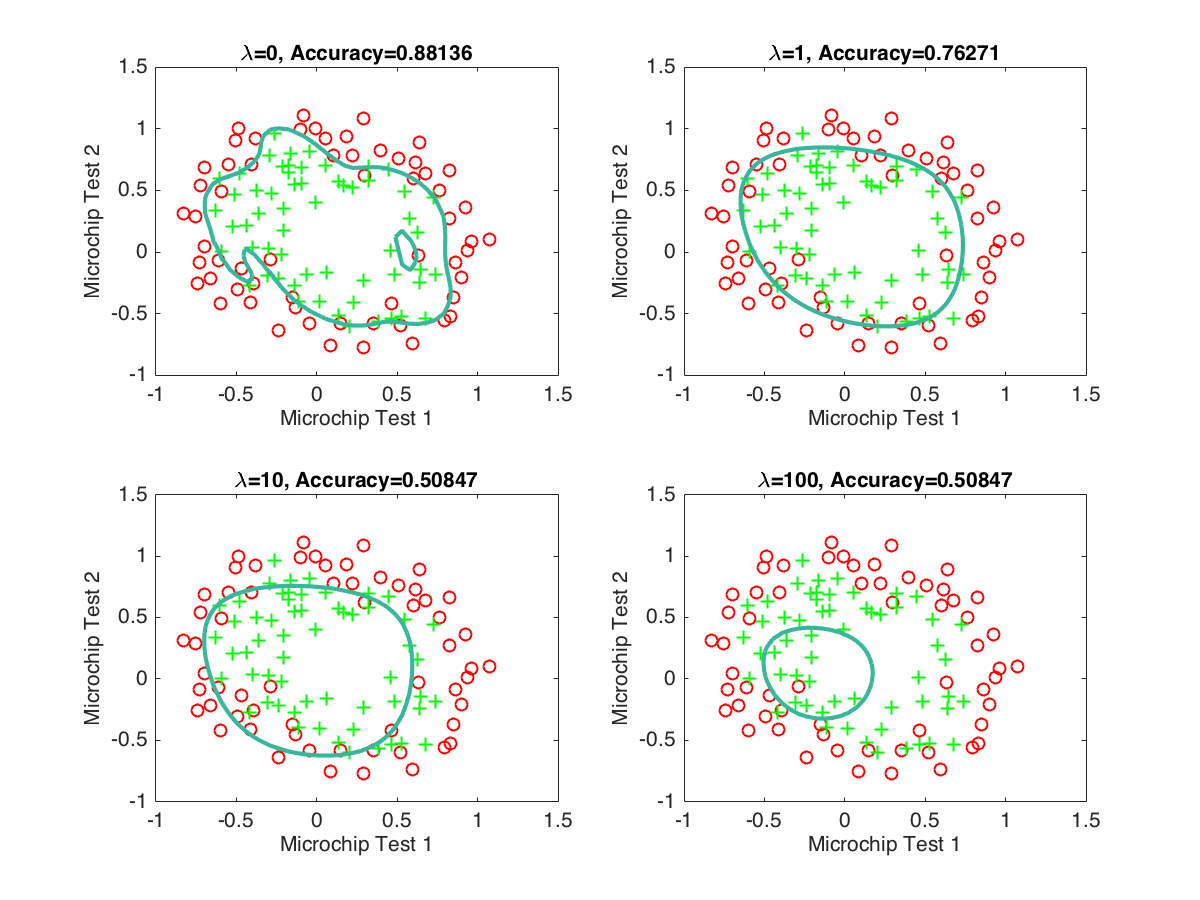
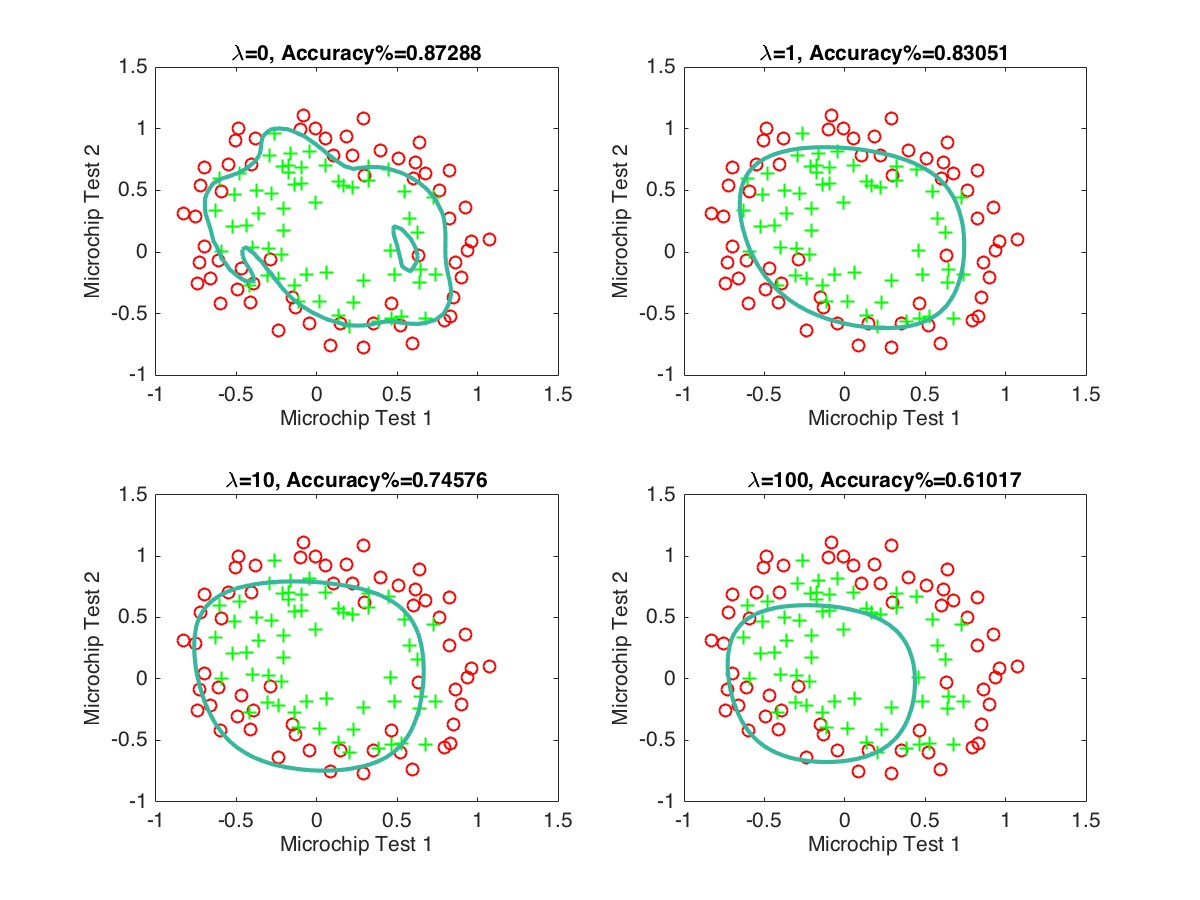
Working on question 4

diff --git a/hw4/hw4.m b/hw4/hw4.m
@@ -52,10 +52,82 @@ for index = 1:4
   plotDecisionBoundary(theta, Xdata, y, degree)
   xlabel('Microchip Test 1','fontsize',10);
   ylabel('Microchip Test 2','fontsize',10);
-  hypo = ((Xdata*theta) >= threshold);
+  hypo = (sigmoid(Xdata * theta) >= threshold);
   result = (hypo == y);
   acc = sum(result)/length(y);
-  str = strcat('\lambda=',num2str(lambda(index)),', Accuracy=',num2str(acc));
+  str = strcat('\lambda=',num2str(lambda(index)),', Accuracy%=',num2str(acc));
   title(str,'fontsize',10)
 end
 print('cmpe677_hwk4_2_circle','-dpng')
+
+
+
+%==========================================================================
+% question 3
+%==========================================================================
+numberOfFolds=5;
+rng(2000); %random number generator seed
+CVindex = crossvalind('Kfold',y,numberOfFolds);
+method='LogisticRegression'
+lambda=1;
+predictionLabels = zeros(size(y));
+
+for i = 1:numberOfFolds
+  TestIndex = find(CVindex == i);
+  TrainIndex = find(CVindex ~= i);
+  TrainDataCV = Xdata(TrainIndex,:);
+  TrainDataGT =y(TrainIndex);
+  TestDataCV = Xdata(TestIndex,:);
+  TestDataGT = y(TestIndex);
+  %
+  %build the model using TrainDataCV and TrainDataGT
+  %test the built model using TestDataCV
+  %
+  switch method
+    case 'LogisticRegression'
+      % for Logistic Regression, we need to solve for theta
+      % Insert code here to solve for theta...
+      % Using TestDataCV, compute testing set prediction using the model created
+      % for Logistic Regression, the model is theta
+      % Insert code here to see how well theta works...
+      initial_theta = zeros(size(Xdata, 2), 1);
+      options = optimset('GradObj', 'on', 'MaxIter', 400);
+      [theta, J, exit_flag] = fminunc(@(t)(costFunctionLogisticRegression(t, TrainDataCV, TrainDataGT, lambda)), initial_theta, options);
+      hypo = (sigmoid(TestDataCV * theta) >= threshold);
+    case 'KNN'
+      disp('KNN not implemented yet')
+    otherwise
+      error('Unknown classification method')
+  end
+  predictionLabels(TestIndex,:) = double(hypo);
+end
+
+confusionMatrix = confusionmat(y,predictionLabels);
+accuracy = sum(diag(confusionMatrix))/sum(sum(confusionMatrix));
+fprintf(sprintf('%s: Lambda = %d, Accuracy = %6.2f%%%% \n',method, lambda,accuracy*100));
+fprintf('Confusion Matrix:\n');
+[r c] = size(confusionMatrix);
+for i=1:r
+  for j=1:r
+    fprintf('%6d ',confusionMatrix(i,j));
+  end
+  fprintf('\n');
+end
+
+
+
+%==========================================================================
+% question 4
+%==========================================================================
+clear
+close all
+% Load Training Data- Andrew Ng Machine Learning MOOC
+load('ex3data1.mat'); % training data stored in arrays X, y
+n = size(X, 1);
+num_labels = length(unique(y)); % 10 labels, from 1 to 10 (note "0" is mapped to label 10)
+% Randomly select 100 data points to display rng(2000); %random number generator seed
+rng(2000); %random number generator seed
+rand_indices = randperm(n);
+sel = X(rand_indices(1:100), :);
+displayData(sel);
+%print -djpeg95 hwk4_4.jpg

diff --git a/hw4/costFunctionLogisticRegression.m b/hw4/costFunctionLogisticRegression.m
@@ -9,5 +9,6 @@ grad = zeros(size(theta));
 J = (1/n)*sum(-y.*(log(sigmoid(X*theta)))-(1-y).*log(1-(sigmoid(X*theta))))+(lambda/(2*n))*sum(theta(2:end).^2);
 
 grad = (1/n)*(X'*(sigmoid(X*theta)-y))+(theta.*lambda)/n;
+grad(1) = (1/n)*sum((sigmoid(X*theta)-y).*X(:,1));
 
 end
